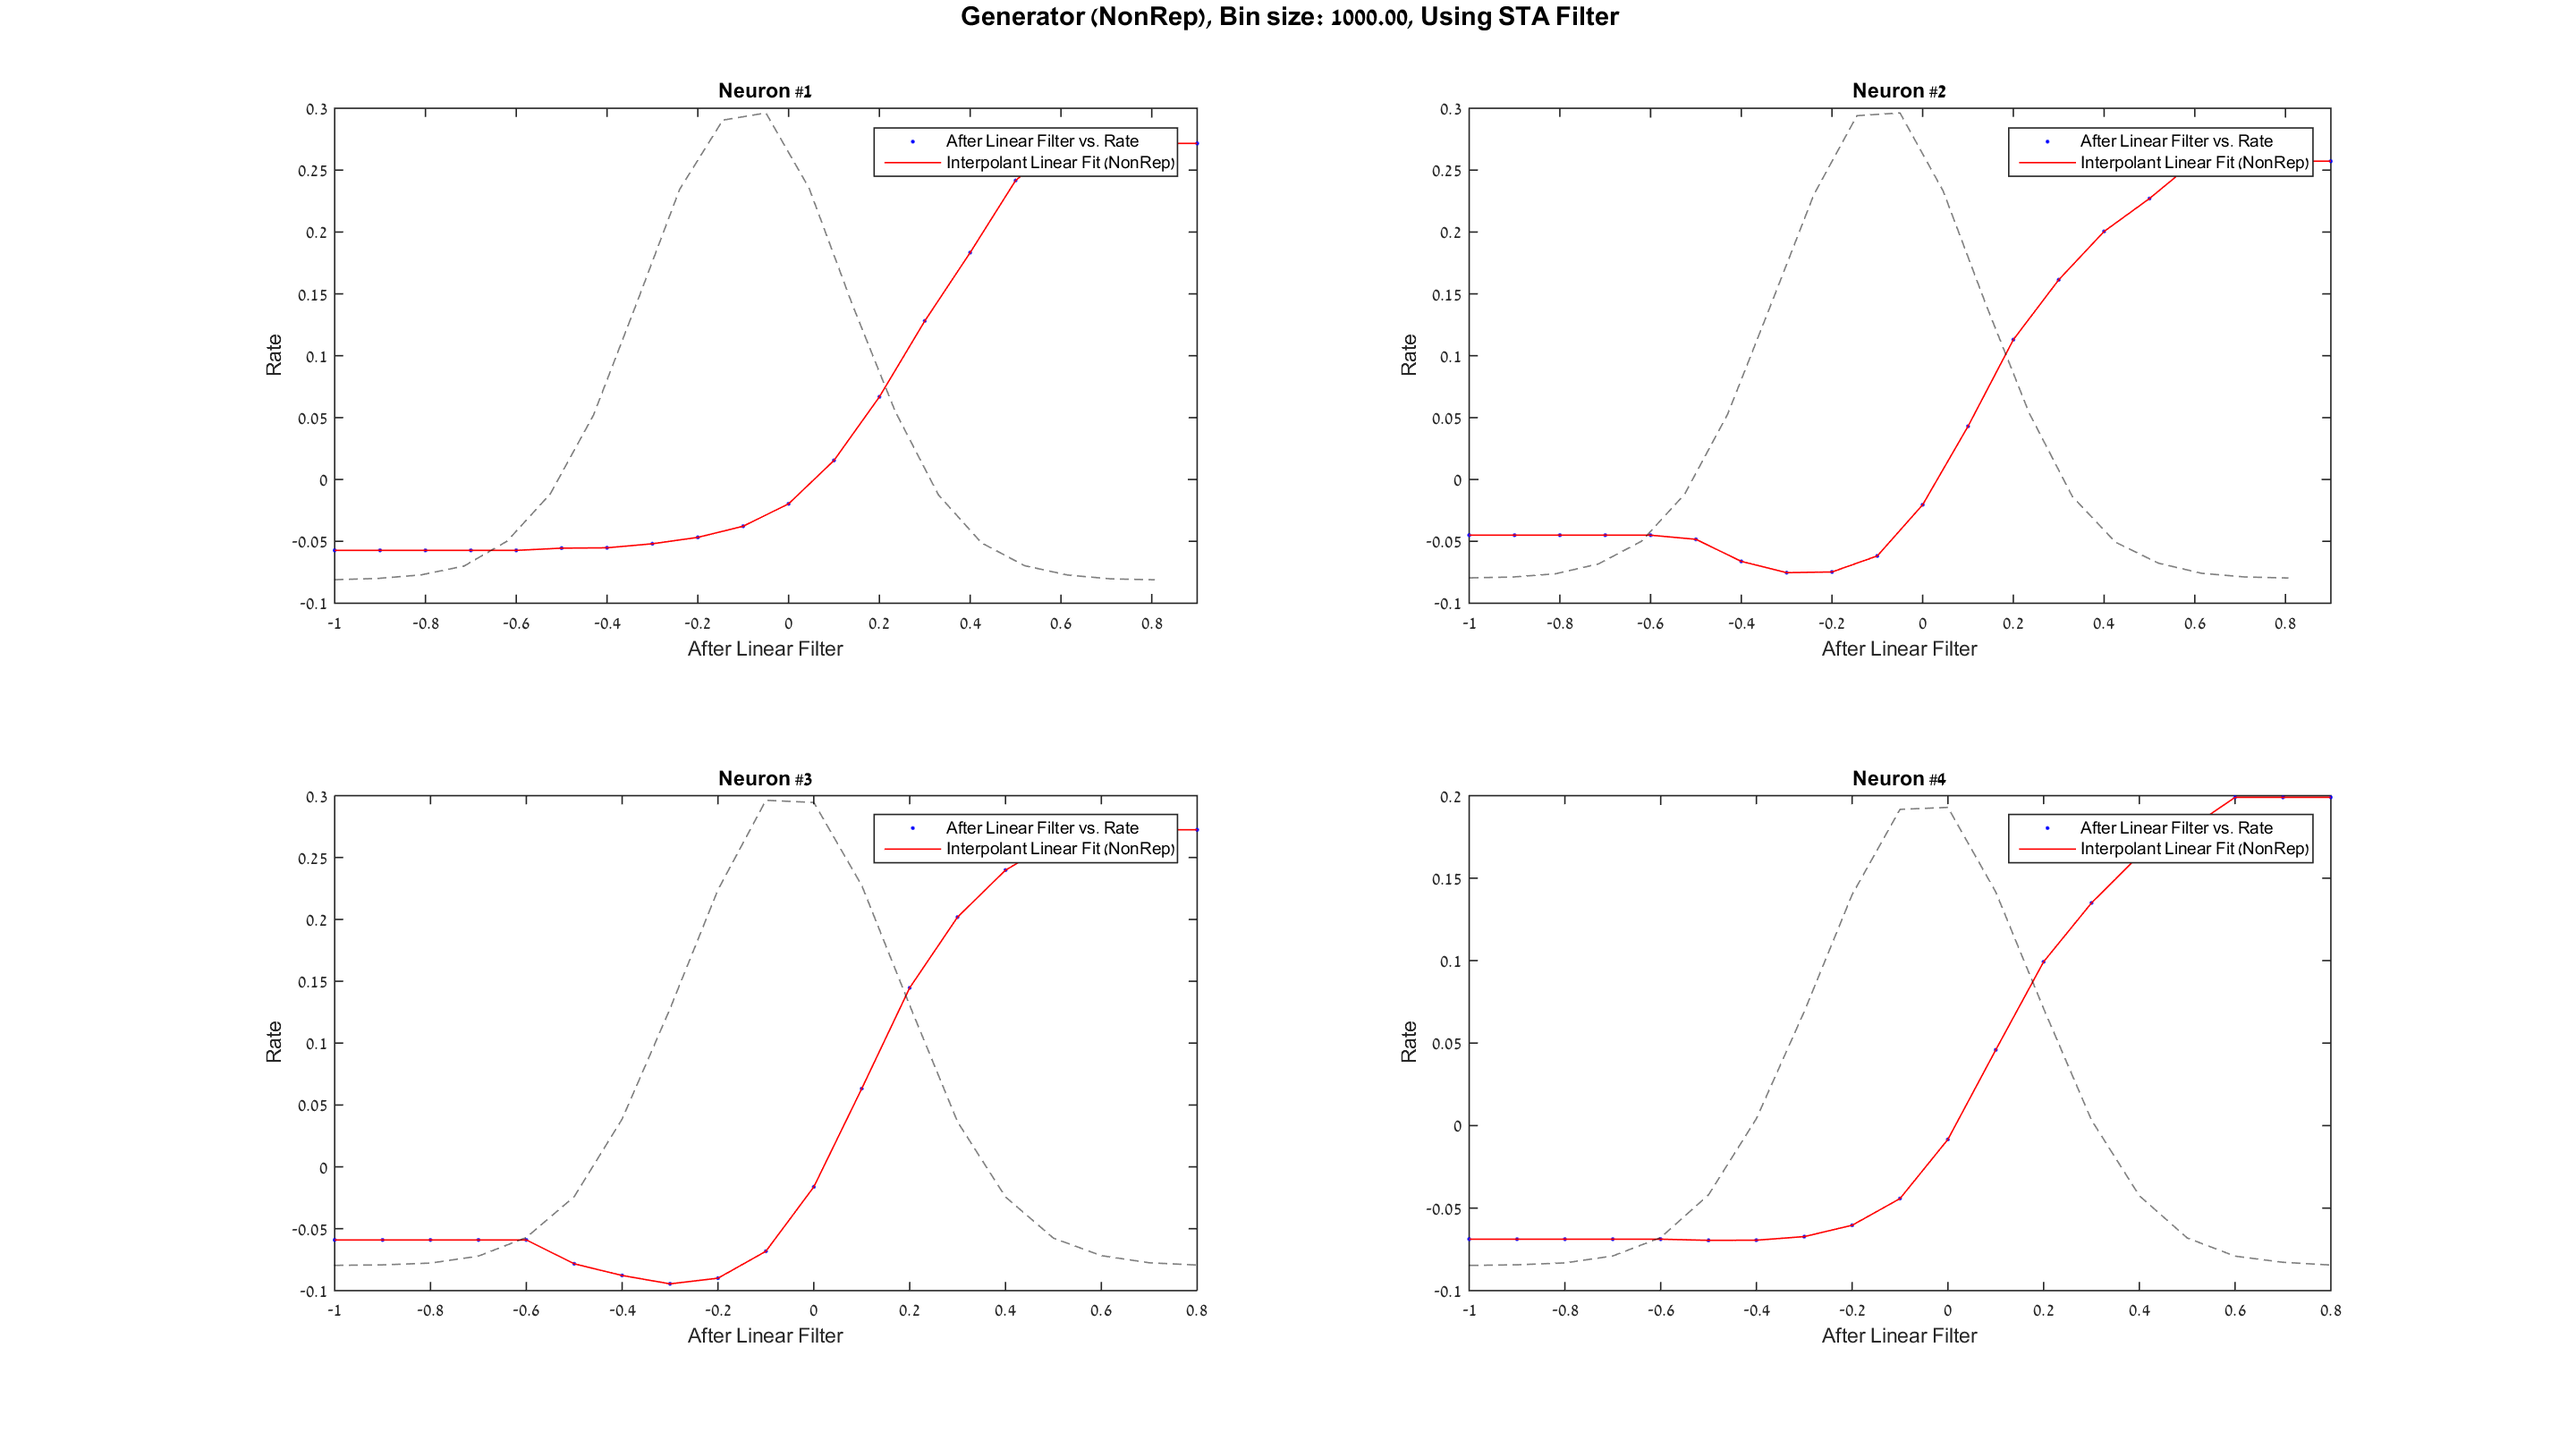
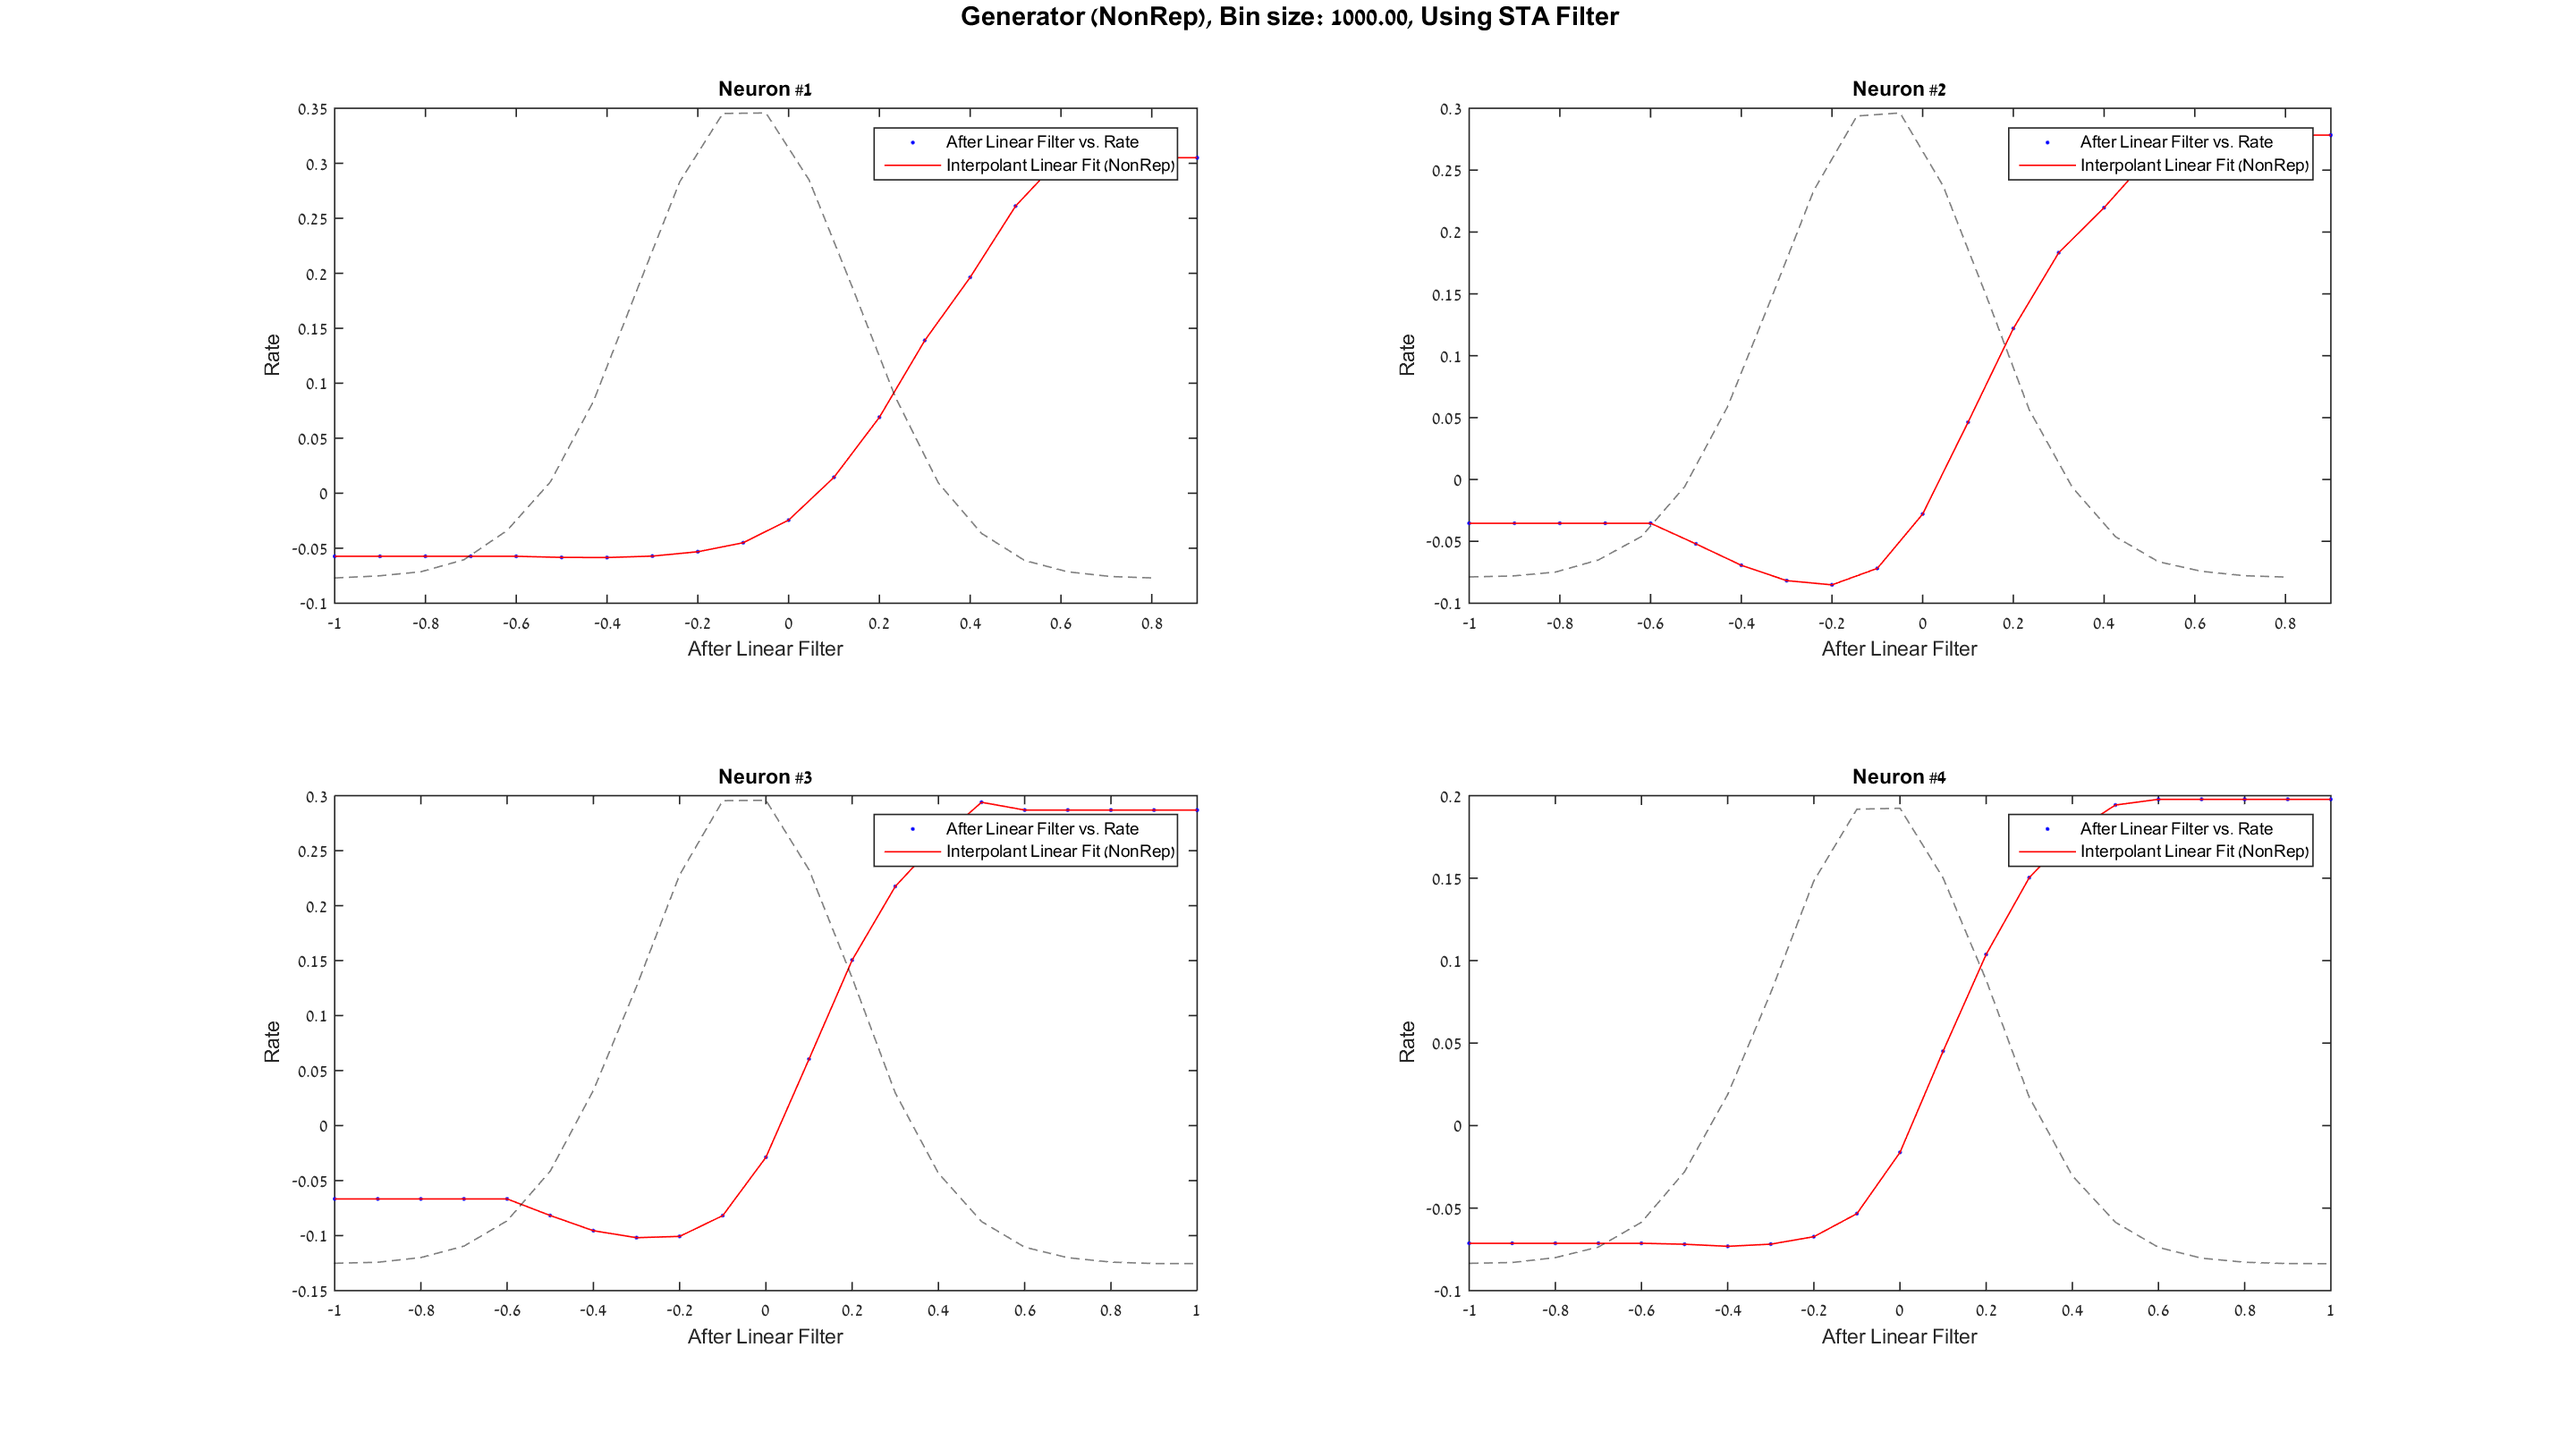
fixed plot after generator binding

diff --git a/4/Tests/RateCrossCorrelation.m b/4/Tests/RateCrossCorrelation.m
@@ -1,0 +1,110 @@
+% Authors
+%   Reza Arfa <rezaarfa (at)gmail.com>
+%
+% License
+%   The program is free to use for non-commercial and academic purposes.
+%
+% Changes
+%   01/01/2013 (!)
+
+clc; close all; clear all;
+
+% ========== init some variables:
+iteration = 176;
+fs = 10000;
+t = -1:1/fs:1;
+
+iterationSteps   = 1:1:iteration;
+crossCorrelation = zeros(1,iteration);
+convolution      = zeros(1,iteration);
+
+set(gcf,'Color',[1 1 1]);
+
+
+% ========== plot two signals (y1 and y2):
+disp('Let y1 and y2 to be defined as following figures:')
+disp('============================================================')
+%y1 = rectpuls(t,0.05);
+d = -0.8 : 1/3 : 0.8;           % 3 Hz repetition frequency
+y1 = pulstran(t,d,'rectpuls',0.05);
+
+%y2 = tripuls(t,0.5,-1);
+y2 = gauspuls(t,0.5,20);
+subplot(4,2,1);plot(t,y1,'Color','blue','LineWidth',2),axis([-1 1 -0.2 1.2]);
+ylabel('y1')
+subplot(4,2,2);plot(t,y2,'Color','red','LineWidth',2),axis([-1 1 -0.2 1.2]);
+ylabel('y2')
+
+
+disp('Press Enter to continue ....')
+pause
+
+
+
+% ========== cross correlation of two signals (y1 and y2):
+disp(' ');disp(' ')
+disp('Cross Correlation of two signals (y1 and y2):')
+disp('============================================================')
+
+for i = 1:iteration
+    
+    moveStep = (i-100)/100;
+    %y1 = rectpuls(t,1);
+    y1 = pulstran(t,d,'rectpuls',0.05);
+    %y2 = tripuls(t-moveStep,0.5,-1);
+    y2 = gauspuls(t-moveStep,0.5,20);
+    
+    subplot(4,2,3:4)
+    hold off;plot(t,y1,'Color','blue','LineWidth',2),axis([-1 1 -0.2 1.2]);
+    hold on; plot(t,y2,'Color','red', 'LineWidth',2),axis([-1 1 -0.2 1.2]);
+    
+    
+    crossCorrelation(i) = sum(y1.*y2);
+    
+    subplot(4,2,5:6)
+    hold off
+    plot(iterationSteps(1:i),crossCorrelation(1:i),'Color','black','LineWidth',2); axis([1 iteration -100 500]);
+    xlabel('t')
+    ylabel('CrossCorrelation(y1, y2)(t) ')
+    
+    pause(0.05)
+end
+
+%{
+disp('Press Enter to continue ....')
+pause
+
+
+% ========== convolution of y1 and y2:
+disp(' ');disp(' ')
+disp('Convolution of two signals (y1 and y2):')
+disp('============================================================')
+
+for i = 1:iteration
+    
+    moveStep = (i-100)/100;
+    
+    
+    %y1 = rectpuls(t,1);
+    y1 = pulstran(t,d,'rectpuls',0.05);
+    %y2 = tripuls(-(t-moveStep),0.5,-1);
+    y2 = gauspuls(-(t-moveStep),0.5,20);
+    
+    subplot(4,2,3:4)
+    hold off;plot(t,y1,'Color','blue','LineWidth',2),axis([-1 1 -0.2 1.2]);
+    hold on; plot(t,y2,'Color','red' ,'LineWidth',2),axis([-1 1 -0.2 1.2]);
+    
+    
+    convolution(i) = sum(y1.*y2);
+    
+    subplot(4,2,7:8)
+    hold off
+    plot(iterationSteps(1:i),convolution(1:i),'Color','black','LineWidth',2); axis([1 iteration -100 500]);
+    xlabel('t')
+    %ylabel('(y1 * y2)(t) ')
+    ylabel('Convolution(y1, y2)(t) ')
+    
+    pause(0.05)
+end
+
+%}

diff --git a/4/Pre_POC_V5/PlotAfterGenerator.m b/4/Pre_POC_V5/PlotAfterGenerator.m
@@ -4,7 +4,7 @@ ConstantsHeader();
 
 
 %choose Rep or NonRep
-MODE = 'Rep';
+MODE = 'NonRep';
 
 load(['MatFiles\AfterGenerator_' MODE '.mat'])
 
@@ -72,6 +72,18 @@ for iBinSize=1:numel(Simulation.RATE_BIN_SIZES)
             rateData(:,1)<=times(START_PLOT_FROM_INDEX)+LENGTH_OF_PLOT_IN_TICKS;
         binnedToPlot = rateData(xRateFilter, :);
         
+        %no negative rate
+        binnedToPlot(:,2) = binnedToPlot(:,2) + abs(min(binnedToPlot(:,2)));
+        
+        %shift when displaying, so there won't be negative rate
+        binnedToPlot(:,3) = binnedToPlot(:,3) + abs(min(binnedToPlot(:,3)));
+        binnedToPlot(:,3) = binnedToPlot(:,3)*max(binnedToPlot(:,2));
+        
+        %shift when displaying, so there won't be negative rate
+        binnedToPlot(:,4) = binnedToPlot(:,4) + abs(min(binnedToPlot(:,4)));
+        binnedToPlot(:,4) = binnedToPlot(:,4)*max(binnedToPlot(:,2));
+        binnedToPlot(:,4) = binnedToPlot(:,4)/2; %improves bind
+        
         psth = binnedToPlot(:,2);
         stimsAfterLinearFilter = binnedToPlot(:,3);
         stimsAfterGenerator = binnedToPlot(:,4);
@@ -87,8 +99,9 @@ for iBinSize=1:numel(Simulation.RATE_BIN_SIZES)
         [AX,H1,H2] = plotyy(times, stimValues, times, aps, 'plot', 'plot');
         %hold(AX(1));
         set(AX,'NextPlot','add')
-        H1.LineStyle = 'none'; H1.Marker = '.'; 
+        %H1.LineStyle = 'none'; H1.Marker = '.'; 
         H1.Color = COLOR_MAP(4, :);  
+        H1.Color(4) = 0.40; % 60% transparent 
         
         AX(1).YLim = [min(stimValues) max(stimValues)];
         AX(1).YColor = COLOR_MAP(4, :);
@@ -129,8 +142,8 @@ for iBinSize=1:numel(Simulation.RATE_BIN_SIZES)
         %G filter
         h = plot(AX(2), binnedToPlot(:,1), stimsAfterGenerator);
         h.Color = COLOR_MAP(2, :);
-        h.Color(4) = 0.70;  % 30% transparent
-        h.LineWidth = 1.5;
+        h.Color(4) = 0.60;  % 30% transparent
+        h.LineWidth = 1.2;
 
         legend('Raw stim values', ...
                 'Aps', ...
